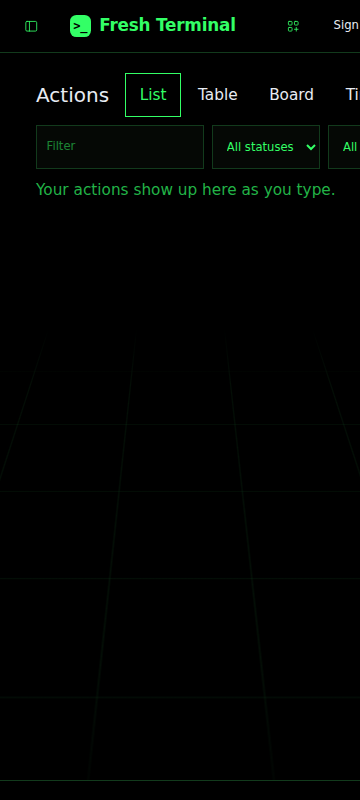
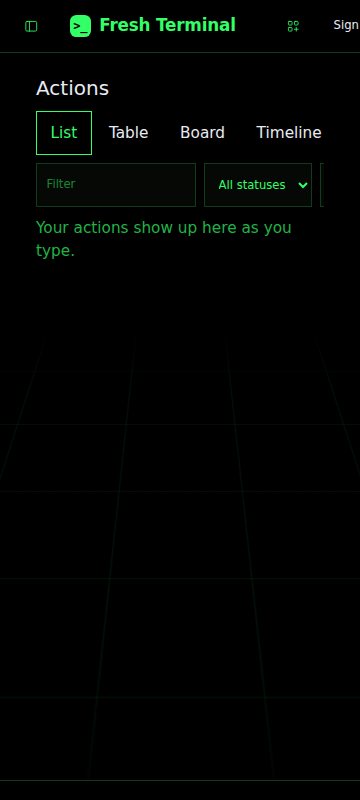
Actions on phones: one minmax(0,1fr) column so the controls row scrolls instead of widening the page; last timeline bar stays in its track; qa-c095 checks clipping; changelog 0015 live check (C-095)
Claude-Session: https://claude.ai/code/session_018fAit84S4QJuASwudzAuQz

diff --git a/terminal/app/src/actions-view/ActionsView.tsx b/terminal/app/src/actions-view/ActionsView.tsx
@@ -260,9 +260,10 @@ export function ActionsView({ boxId }: { boxId: string | null }) {
       {view === 'timeline' && rows.length > 0 ? (
         <div ref={timelineRef} className="act-timeline" style={{ ['--label-w' as string]: `${labelWidth}px` }} data-testid="actions-timeline">
           {timeline.map((row, index, ordered) => {
-            const left = ((row.at - first) / span) * 100;
             const next = ordered[index + 1];
             const width = Math.max(1.2, (((next?.at ?? last) - row.at) / span) * 100);
+            // The last bar keeps its minimum width inside the track instead of poking past the edge.
+            const left = Math.min(((row.at - first) / span) * 100, 100 - width);
             const parent = row.follows ? byId.get(row.follows) : undefined;
             return (
               <div key={row.id} className="act-tl-row" data-status={row.status}>

diff --git a/terminal/app/src/styles/app.css b/terminal/app/src/styles/app.css
@@ -3512,6 +3512,8 @@ textarea.field-input {
   width: min(100%, 72rem);
   margin-inline: auto;
   display: grid;
+  /* One column that never grows past the page: the controls row scrolls inside it (C-095). */
+  grid-template-columns: minmax(0, 1fr);
   gap: var(--space-cozy);
   padding-bottom: var(--space-roomy);
 }

diff --git a/terminal/docs/changelog/0015.md b/terminal/docs/changelog/0015.md
@@ -20,6 +20,9 @@ Date: 2026-09-29. Model: Opus 5.5 (built on C-090 by Fable 5.1 in Justin's sessi
 
 - Before push: typecheck clean; vitest 51 files, 277 tests green; build green; `check:responsive` 35 of 35 (landing, stage, canvas, replay, actions at 360 to 3840); `qa-c095.mjs` locally: 12 of 12 view×width with no overflow and no control under 44 px, 5 arrows, label width 320 → 352 after two ArrowRight and a reload.
 
-## Live check
+## Live check (2026-09-29 05:36 UTC, deploy of 65f06a3: ci 36526841901, pages 36526841967, site-deploy 36526842162, router-deploy 36526841964, all green)
 
-Recorded below after the deploy.
+- `node scripts/qa-c095.mjs --base <url>` in a fresh headless Chromium on https://imagine-os.github.io/fresh-terminal and on https://freshterminal.ai: typed "make a page called Notes", "switch to Glass Window", "undo". Actions listed all three lines, their two replies, both edits (applied; the theme switch undone) and the undo note: 8 rows, 5 follows arrows, cost $0.0000 with "no model" on both replies (all three are local commands), no page errors, every control at least 44 px, label width 320 → 352 after two ArrowRight and a reload.
+- The browser's ledger held three `edit` entries at $0 (`edit:page.create,nav.add`, `edit:theme.set`, `undo:theme.set`) and no charges: the three prompts cost $0.
+- Found at 390 px on the live site: the one-row controls widened the page's grid column, so the right edge (the Timeline tab, long list lines) was cut off inside the stage (the stage hides sideways overflow, so neither check saw it). Fixed in the next commit: `.actions` is one `minmax(0, 1fr)` column; the last timeline bar stays inside its track. `qa-c095.mjs` now also fails when anything inside `.actions` is clipped. Re-checked live below.
+

diff --git a/terminal/docs/qa/responsive-latest.md b/terminal/docs/qa/responsive-latest.md
@@ -1,6 +1,6 @@
 # Responsive check (latest)
 
-Run: 2026-09-29T05:34:30.035Z. Widths: 360, 390, 768, 1280, 1920, 2560, 3840. Pages: /, /box/demo, /canvas, /box/demo/play, /actions.
+Run: 2026-09-29T05:42:17.791Z. Widths: 360, 390, 768, 1280, 1920, 2560, 3840. Pages: /, /box/demo, /canvas, /box/demo/play, /actions.
 Asserts: no horizontal overflow, composer visible, interactive targets >= 44px.
 
 | page | width | overflow | composer | small targets | screenshot |
